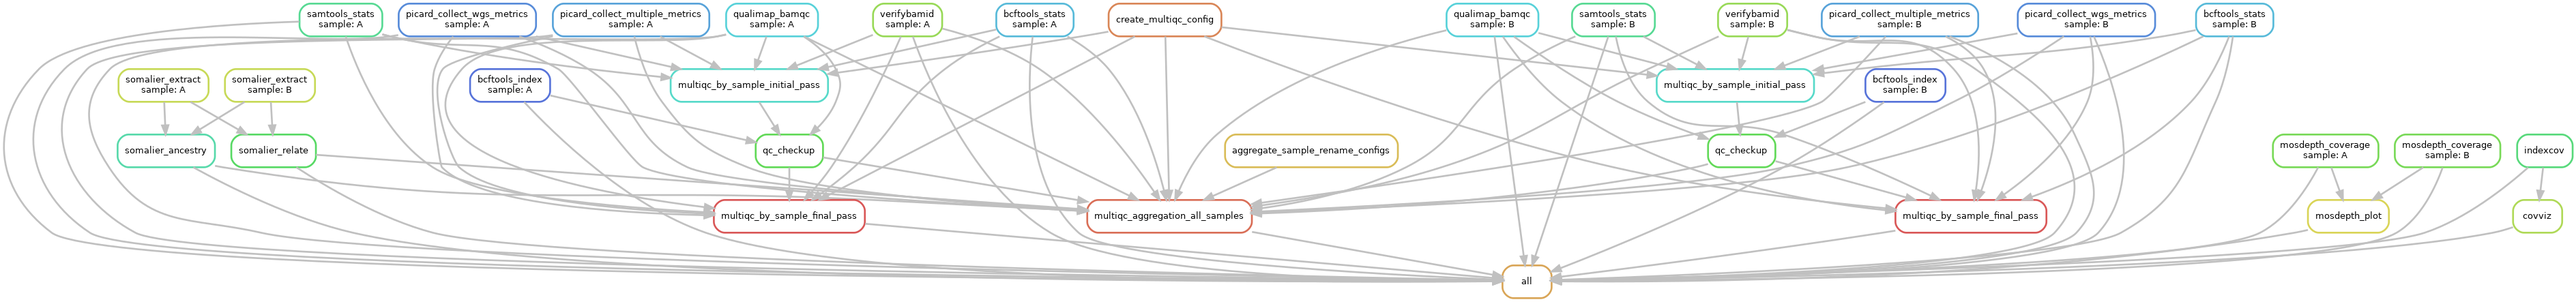
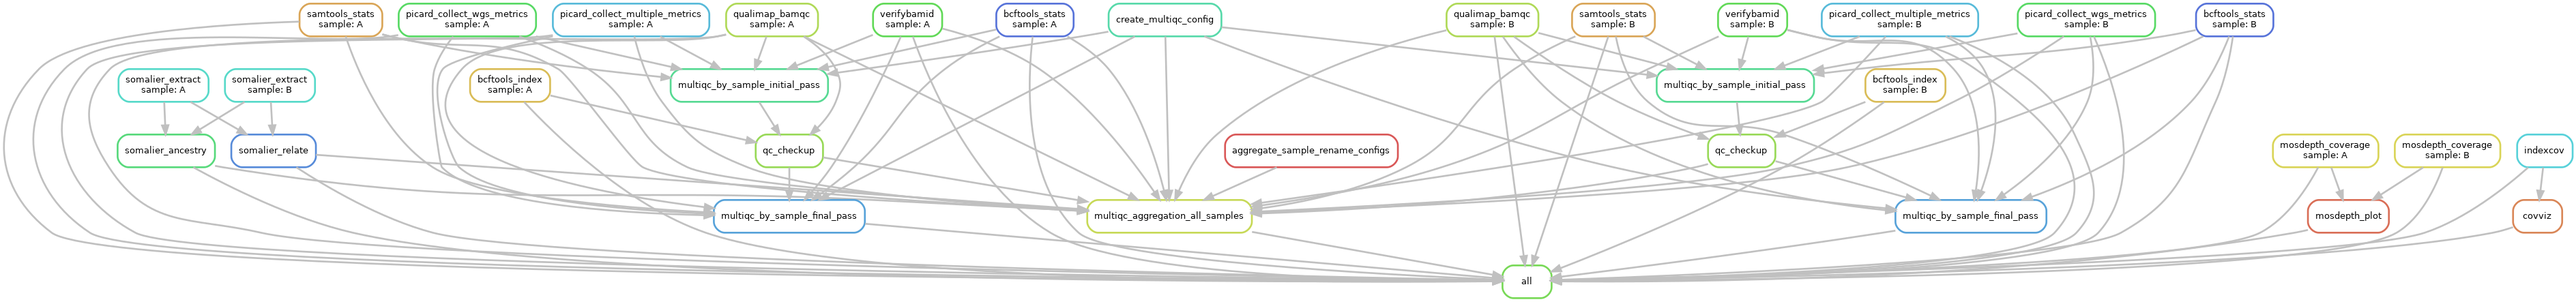
adds input reqts; updates dag visualizations

diff --git a/README.md b/README.md
@@ -274,14 +274,6 @@ python src/run_quac.py \
       --pedigree "path/to/lake/with/pedigree_file.ped"
 ```
 
-*Note that options `--project_name` and `--pedigree` are required*. Only the samples that are supplied in pedigree file
-via `--pedigree` will be processed by QuaC and all of these samples must belong to the same project. This repo also
-includes a handy script [`src/create_dummy_ped.py`](src/create_dummy_ped.py) that can create a dummy pedigree file,
-which will lack sex (unless project tracking sheet is provided), relatedness and affectedness info. See header of the
-script for usage instructions. Note that we plan to use [phenotips](https://phenotips.com/) in future to produce fully
-capable pedigree file. One could manually create them as well, but this would be error-prone.
-
-
 **NOTE:**
 
 Besides the basic features, wrapper script [`src/run_quac.py`](./src/run_quac.py) offers the following:
@@ -293,6 +285,22 @@ Besides the basic features, wrapper script [`src/run_quac.py`](./src/run_quac.py
   still be submitted to Slurm.
 - Reruns failed jobs once again by default. This may be modified using `--rerun_failed`.
 - Override slurm partition used via `--slurm_partition`.
+
+
+### Input requirements
+
+* Pedigree file supplied via `--pedigree`. Only the samples that are supplied in pedigree file
+will be processed by QuaC and all of these samples must belong to the same project. This repo also
+includes a handy script [`src/create_dummy_ped.py`](src/create_dummy_ped.py) that can create a dummy pedigree file,
+which will lack sex (unless project tracking sheet is provided), relatedness and affectedness info. See header of the
+script for usage instructions. Note that we plan to use [phenotips](https://phenotips.com/) in future to produce fully
+capable pedigree file. One could manually create them as well, but this would be error-prone.
+* Output produced by [the small variant caller
+  pipeline](https://gitlab.rc.uab.edu/center-for-computational-genomics-and-data-science/sciops/pipelines/small_variant_caller_pipeline).
+  This includes bam, vcf and QC output. Refer to [test sample dataset](.test/ngs-data/test_project/analysis/A), which is
+  representative of the input required.
+* [QuaC config file](#set-up-workflow-config-file)
+* When run in exome mode, QuaC requires a capture-regions bed file at path `path_to_sample/configs/small_variant_caller/<capture_regions>.bed`.
 
 
 ### Example usage
@@ -325,7 +333,7 @@ python src/run_quac.py \
       --exome
 ```
 
-## Output
+### Output
 
 QuaC results are stored at the path specified via option `--outdir` (default:
 `$USER_SCRATCH/tmp/quac/results/test_project/analysis`).  Refer to the [testing's output](#expected-output-files) to
@@ -333,6 +341,7 @@ learn about output directory structure. Most important output files are aggregat
 [multiqc](https://multiqc.info/), both at sample-level as well as at the project-level. These multiqc reports also
 include summary of QC-checkup results.
 
+Note that QuaC's output directory structure takes the output structure of the small variant caller pipeline.
 
 ## Testing pipeline
 
@@ -439,7 +448,6 @@ module load Anaconda3/2020.02
 conda activate quac
 DAG_DIR="pipeline_visualized"
 
-
 ###### WGS mode ######
 # DAG
 python src/run_quac.py \
@@ -462,7 +470,7 @@ python src/run_quac.py \
       --projects_path .test/ngs-data/ \
       --pedigree .test/configs/project.ped \
       --exome \
-      --run_locally --extra_args "--dag -F | dot -Tpng > ${DAG_DIR}/wgs_dag.png"
+      --run_locally --extra_args "--dag -F | dot -Tpng > ${DAG_DIR}/exome_dag.png"
 
 # Rulegraph - less informative than DAG at sample level but less dense than DAG makes this easier to skim
 python src/run_quac.py \
@@ -470,7 +478,7 @@ python src/run_quac.py \
       --projects_path .test/ngs-data/ \
       --pedigree .test/configs/project.ped \
       --exome \
-      --run_locally --extra_args "--rulegraph -F | dot -Tpng > ${DAG_DIR}/wgs_rulegraph.png"
+      --run_locally --extra_args "--rulegraph -F | dot -Tpng > ${DAG_DIR}/exome_rulegraph.png"
 ```
 
 ## Contributing
